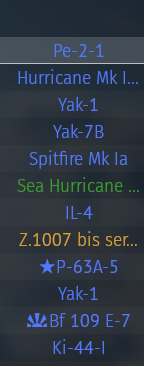
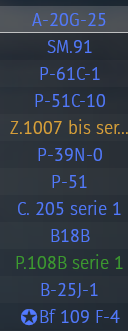
Update

diff --git a/main.ts b/main.ts
@@ -1,14 +1,33 @@
 import axios from "axios";
 import { readFileSync } from "fs";
 import { ocrSpace } from "ocr-space-api-wrapper";
+import lookup from "./lookup";
 // eslint-disable-next-line @typescript-eslint/no-var-requires
 const prompt = require("prompt-sync")();
 
-async function getBR() {
+async function getBR(ress: { name: string; rb_br: number; cls: string }[]) {
   try {
     const response = await axios.get("http://localhost:8111/indicators");
-    console.log(response);
-    return 2.7;
+    console.log(response.data.type);
+    if (response.data.type === "he-177a-5") {
+      return 6.0;
+    }
+    if (response.data.type === "z_1007_bis_serie3") {
+      return 2.7;
+    }
+    if (response.data.type === "z_1007_bis_serie5") {
+      return 3.0;
+    }
+    if (response.data.type === "b-17e") {
+      return 4.7;
+    }
+    if (response.data.type === "leo_451_early") {
+      return 3.0;
+    }
+    if (response.data.type === "mb_175t") {
+      return 3.3;
+    }
+    return 4.7;
   } catch (error) {
     let input = "";
     while (input.search(/\d{1,2}\.0|\d{1,2}\.3|\d{1,2}\.7/g)) {
@@ -53,7 +72,7 @@ async function main(): Promise<void> {
   function air(vehicle: { cls: string }): boolean {
     return vehicle.cls === "Aviation";
   }
-  const brb: number = await getBR();
+  const brb: number = await getBR(ress);
   const sel = ress.filter(filterhighbr);
   function filterhighbr(vehicle: { rb_br: number }) {
     return vehicle.rb_br <= brb + 1;
@@ -66,19 +85,11 @@ async function main(): Promise<void> {
     const result: { name: string; br: number }[] = [];
     aray.forEach((ele: string) => {
       let element = ele.replace(/\s/g, "_");
-      if (element == "Spitfire_Mk_la") {
-        element = "Spitfire_Mk_Ia";
-      }
-      if (element[0] == "*") {
-        element = element.substring(1, element.length) + "_(USSR)";
-      }
-      if (element == "Ki-44-1") {
-        element = "Ki-44-I";
-      }
-      if (element == "LBf_109_E-7") {
-        element = "Bf_109_E-7_(Japan)";
-      }
-      if (element[element.length - 1] == ".") {
+      element = lookup(element);
+      if (
+        element[element.length - 2] == "." &&
+        element[element.length - 1] == "."
+      ) {
         console.log(element);
         element = element.substring(0, element.length - 2);
         for (let index = 0; index < sel.length; index++) {

diff --git a/lookup.ts b/lookup.ts
@@ -1,0 +1,33 @@
+export default function lookup(element: string): string {
+  if (element == "Spitfire_Mk_la") {
+    element = "Spitfire_Mk_Ia";
+  }
+  if (element[0] == "*") {
+    element = element.substring(1, element.length) + "_(USSR)";
+  }
+  if (element == "Ki-44-1") {
+    element = "Ki-44-I";
+  }
+  if (element == "Ki-44-11") {
+    element = "Ki-44-II";
+  }
+  if (element == "Ki-61-11 Kai") {
+    element = "Ki-61-II Kai";
+  }
+  if (element == "LBf_109_E-7") {
+    element = "Bf_109_E-7_(Japan)";
+  }
+  if (element == "OSpitfire_Mk_V.") {
+    element = "Spitfire_Mk_Vb/trop_(Italy)";
+  }
+  if (element == "Bf_110_G7") {
+    element = "Bf_110_C-7";
+  }
+  if (element == "B-25)-20") {
+    element = "B-25J-20";
+  }
+  if (element == "SE_F4U-1A'") {
+    element = "F4U-1A_(Japan)";
+  }
+  return element;
+}
